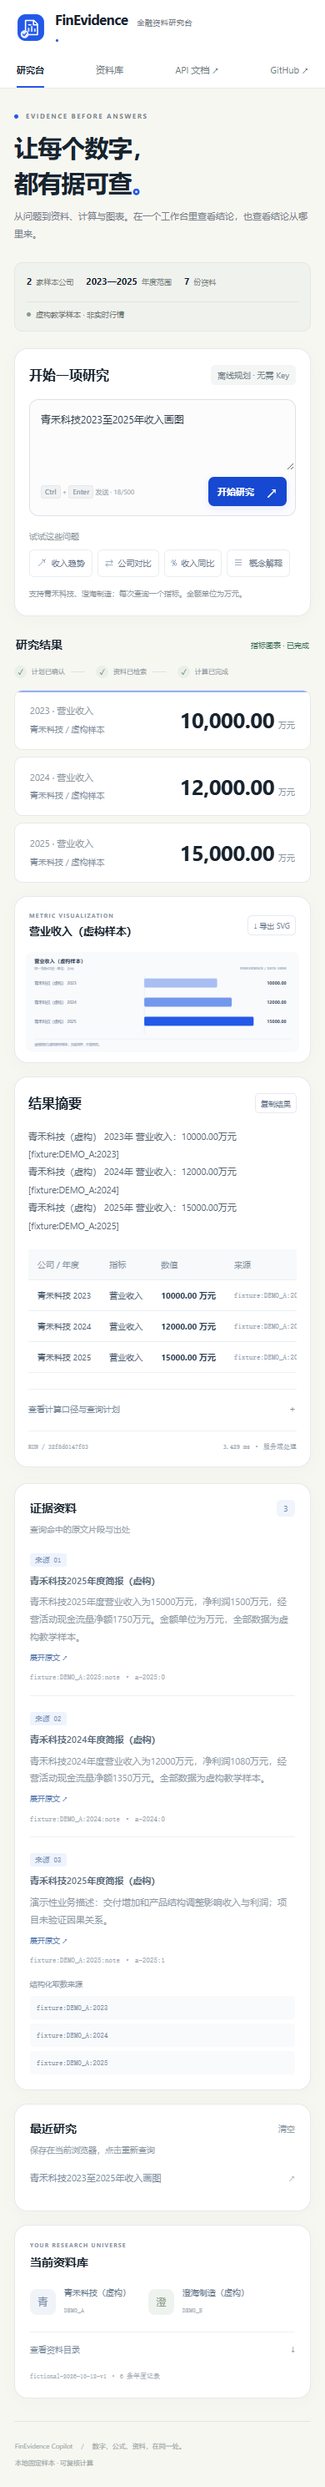
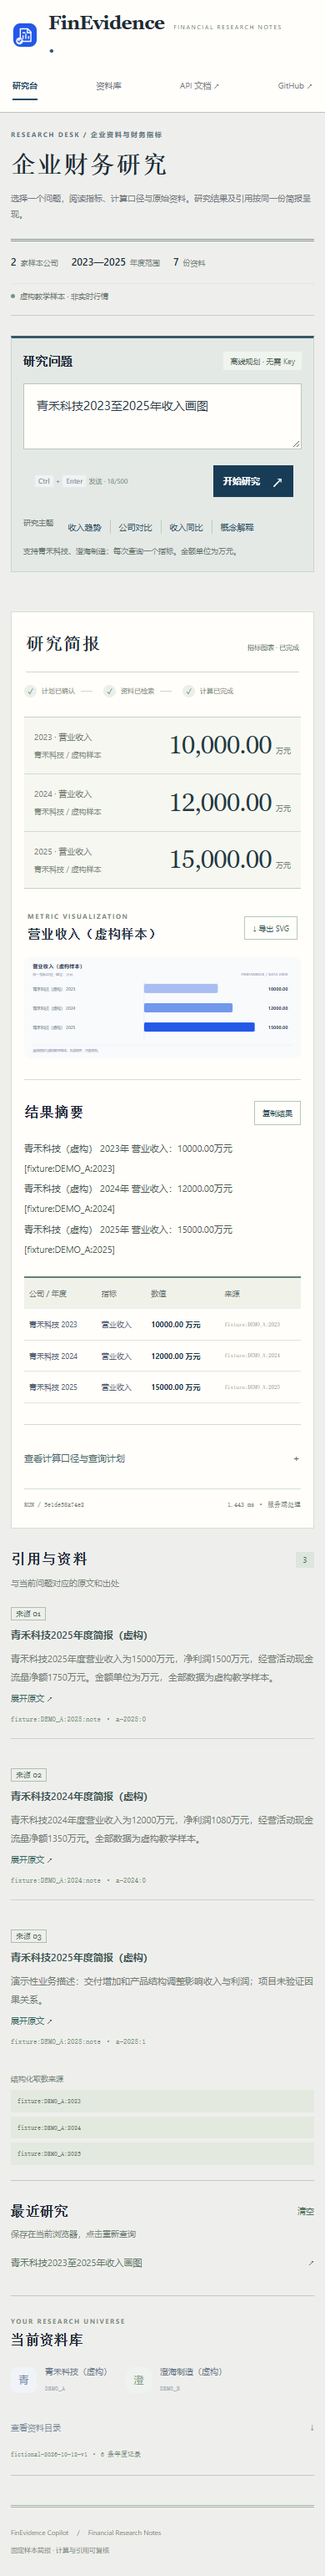
Present financial queries as research briefs with citation margins

diff --git a/src/finevidence/web/report.css b/src/finevidence/web/report.css
@@ -1,0 +1,18 @@
+/* Research-document layout: a full-width question desk, report body and citation margin. */
+#ask-form{background:transparent;border:0;border-radius:0;padding:0}
+:root{--paper:#eeefec;--card:#fffefa;--ink:#202c36;--muted:#70797d;--line:#daddd6;--blue:#254b66;--pale:#edf1f1;--radius:0}
+body{background:var(--paper);color:var(--ink);font-size:13px;font-family:"Segoe UI","Microsoft YaHei",sans-serif}
+.site-header{background:#fffefa;border-bottom:1px solid #bbc3c2}.header-inner{max-width:1300px;min-height:76px;padding:15px 30px;gap:40px}.brand{gap:13px}.brand strong{font-family:Georgia,"Times New Roman",serif;font-size:27px;font-weight:600;letter-spacing:-.7px}.brand small{font-size:8px;letter-spacing:1.6px;color:#6e7c82}.brand-dot{color:#315a73}.brand img{width:34px;height:34px}nav{gap:22px}nav a{font-size:11px;color:#778087}nav .nav-active{color:#254b66;border-bottom-color:#254b66}.connection{font-size:10px;color:#6e7d79}
+.shell{max-width:1300px;padding:30px 30px 0}.report-heading{display:flex;align-items:end;justify-content:space-between;gap:22px;padding:0 0 22px;border-bottom:3px double #839494}.report-heading .eyebrow{margin:0 0 11px;font-size:9px;color:#5b747e;letter-spacing:1.6px}.report-heading h1{font-family:Georgia,"Songti SC","SimSun",serif;font-size:34px;font-weight:600;letter-spacing:2px;line-height:1.25;margin:0 0 13px}.report-heading .intro-copy{font-size:11px;color:#778085;margin:0}.report-edition{display:grid;text-align:right;gap:9px;font-size:10px;color:#7c888e;font-family:Consolas,monospace}.report-edition strong{font-weight:400;color:#31566b;font-size:10px}
+.scope-bar{background:transparent;border:0;border-bottom:1px solid #c5ccca;border-radius:0;padding:15px 0;margin:0 0 24px;gap:25px;font-size:10px}.scope-bar strong{font-size:12px;font-weight:550;font-variant-numeric:tabular-nums}.scope-icon{display:none}.scope-note{color:#6e7e7b}.soft-dot{background:#7b9186}
+.workspace{display:grid;grid-template-columns:minmax(0,1fr) 295px;gap:24px 32px;align-items:start}.research-column{display:contents}.composer{grid-column:1 / -1;grid-row:1}.results{grid-column:1;grid-row:2;background:#fffefa;border:1px solid #d9ddd7;padding:28px 30px}.evidence-column{grid-column:2;grid-row:2;display:grid;gap:28px;align-self:start}
+.panel{background:transparent;border:0;border-radius:0;box-shadow:none}.composer{padding:18px 22px 16px;background:#e4e9e6;border:1px solid #cad4ce;border-top:3px solid #365967}.section-line h2{font-size:14px;font-family:Georgia,"SimSun",serif;font-weight:600}.composer .section-line{margin-bottom:12px}.tiny-tag{font-size:9px;color:#5b7069;background:#f0f4ee;border-radius:0;padding:4px 8px}
+#ask-form{display:grid;grid-template-columns:minmax(0,1fr) 145px;gap:0 16px;align-items:start}#question{font-size:14px;font-family:"Microsoft YaHei",sans-serif;border-radius:0;background:#fffefa;border:1px solid #b9c5be;min-height:66px;padding:13px 15px;line-height:1.8;resize:vertical}#question:focus{border-color:#2f6075;box-shadow:none}.composer-bottom{margin:0;display:flex;flex-direction:column-reverse;align-items:stretch;justify-content:start;gap:10px}.composer-bottom>span{font-size:8px;text-align:center;color:#6d7f78}.primary-button{justify-content:space-between;background:#254b66;border-radius:0;box-shadow:none;font-size:12px;min-height:43px;padding:10px 13px}.primary-button:hover{background:#173b55}.example-label{display:inline-block;margin:12px 14px 0 0;font-size:9px;color:#748279}.examples{display:inline-flex;gap:0;flex-wrap:wrap;margin-top:12px;vertical-align:middle}.examples button{border:0;border-left:1px solid #becac3;border-radius:0;background:none;color:#315569;font-size:10px;padding:0 13px}.examples button:first-child{border-left:0;padding-left:0}.examples button:hover{background:transparent;color:#112e42;text-decoration:underline}.examples button span{display:none}.field-hint{font-size:9px;color:#708077;margin:11px 0 0}
+.results-heading{padding-bottom:15px;border-bottom:1px solid #cfd6d0;margin-bottom:15px;align-items:baseline}.results-heading h2{font-family:Georgia,"SimSun",serif;font-size:23px;font-weight:600;letter-spacing:1px}.result-meta{font-size:9px;color:#72877d}.result-meta.success{color:#4f7165}.result-steps{font-size:9px;color:#7c8c80;margin:15px 0 23px}.result-steps span+span::before{background:#cdd5ce;width:32px}
+.fact-grid{gap:0;border-top:1px solid #c5cfcc;border-bottom:1px solid #c5cfcc;margin-bottom:27px;grid-template-columns:repeat(3,minmax(0,1fr));background:#f6f7f1}.fact-card{border:0;border-right:1px solid #d5dcd3;border-radius:0;padding:17px 18px;box-shadow:none;background:transparent;display:block}.fact-card:last-child{border-right:0}.fact-card::before{display:none}.fact-card .fact-label{font-size:10px;color:#798579;letter-spacing:0;margin:0 0 10px}.fact-card .fact-value{font-family:Georgia,"Times New Roman",serif;font-size:28px;letter-spacing:-.7px;font-weight:500;color:#243a43;white-space:normal;font-variant-numeric:lining-nums tabular-nums;margin:0}.fact-card .fact-value small{font-family:"Segoe UI",sans-serif;font-size:9px;color:#708578;margin-left:5px}.fact-card .fact-company{font-size:9px;margin-top:10px;color:#889287}
+.chart-panel{border-bottom:1px solid #d6ddd5;padding:0 0 25px;margin-bottom:25px}.chart-panel .section-line{margin-bottom:15px}.chart-panel h3{font-family:Georgia,"SimSun",serif;font-size:17px;color:#263b42}.small-eyebrow{font-size:8px;color:#7e8e83;letter-spacing:1.5px}.quiet-button{border:1px solid #b7c6bd;border-radius:0;background:transparent;color:#365b62;font-size:10px;padding:6px 9px}.quiet-button:hover{background:#eaf0e8}.chart-panel img{border-radius:0;width:100%;height:auto}.chart-panel .field-hint{font-size:9px}.answer-panel{padding:0}.answer-panel h3{font-size:17px;font-family:Georgia,"SimSun",serif}.answer-text{font-size:12px;line-height:2.2;color:#4e5b58;white-space:pre-line}.table-wrap{border-radius:0;margin-top:20px;overflow-x:auto;border-top:2px solid #637f7b}.table-wrap th{background:#f0f2ea;font-size:10px;color:#748178;padding:13px 10px;font-weight:500}.table-wrap td{padding:14px 10px;font-size:10px;border-color:#e0e5dc;font-variant-numeric:tabular-nums}.table-wrap td:last-child{font-size:8px;color:#7e9086;overflow-wrap:anywhere}.calculation{border-color:#d1dbd1;margin-top:25px;padding-top:16px}.calculation summary{font-size:11px;color:#47676a}.formula{font-family:Consolas,monospace;font-size:11px;background:#f0f4ed;border-radius:0;padding:12px}.plan-list{font-size:10px;line-height:1.9}.plan-list dt{color:#829082}.result-foot{font-size:8px;border-color:#d7dfd4;margin-top:25px;color:#7c8b7c}
+.evidence-panel,.history-panel,.library-panel{padding:0 0 18px;border-bottom:1px solid #bfcac2}.evidence-panel .section-line h2,.history-panel .section-line h2,.library-panel h2{font-family:Georgia,"SimSun",serif;font-size:17px;letter-spacing:.4px}.panel-subtitle{font-size:10px;color:#7b8980;line-height:1.8}.count-badge{border-radius:0;background:#dce6dd;color:#456353;font-size:9px}.evidence-card{padding:16px 0;border-bottom:1px solid #c9d4c9}.evidence-card:last-child{border-bottom:0}.evidence-number{font-family:Georgia,serif;background:transparent;border:1px solid #adbfaf;border-radius:0;font-size:9px;color:#53705c;padding:2px 5px}.evidence-title{font-size:11px;line-height:1.8;font-weight:600;color:#3f5653}.evidence-preview,.evidence-full{font-size:11px;line-height:2;color:#738074}.evidence-toggle{font-size:10px;color:#3c6c66}.source-line{font-size:8px;color:#82957f;overflow-wrap:anywhere}.fact-source{font-size:8px;background:#e4e9df;border-radius:0;color:#6c8572;overflow-wrap:anywhere}.source-title{font-size:9px;color:#7c8e7e}.history-item{font-size:11px;line-height:1.8;padding:11px 0;border-color:#cbd6ca;color:#627769}.history-item:hover{color:#254b66;background:none}.history-item b{font-size:10px;color:#557263}.text-button{font-size:10px;color:#557763}.company-list{gap:17px}.company-entry{padding:0;background:none;border:0}.company-letter{border-radius:0;color:#55766a;background:#dfe7df}.company-entry strong{font-size:11px;color:#516655}.company-entry small{font-size:8px;color:#82947f}.library-details{font-size:10px;color:#6f8775}.library-foot{font-size:8px;color:#81947f}
+.notice{background:#eeeadb;border:1px solid #d4c8ab;border-radius:0;color:#78654b;font-size:11px}.notice.error{background:#f1e5de;color:#8d5548;border-color:#d7b9a8}.loading-state,.empty-state{padding:40px 20px;background:#f3f4ed;border:1px solid #d8dfd2;border-radius:0}.loading-state strong{color:#536b5b;font-size:13px}.loading-state p,.empty-state p{font-size:11px;color:#7b8a79}.empty-state h3{font-family:Georgia,"SimSun",serif;color:#4e6855}.empty-symbol{color:#839777}.site-footer{border-top:3px double #a5b5a7;font-size:9px;color:#7d8d7a;margin-top:35px;padding:24px 0}.footer-dot{color:#708b73}.toast{border-radius:0;background:#2c4546;font-size:11px}
+@media(max-width:1050px){.workspace{grid-template-columns:minmax(0,1fr) 260px;gap:20px}.shell{padding:25px 24px 0}.header-inner{padding:15px 24px}.report-heading h1{font-size:30px}.results{padding:24px 21px}.fact-card{padding:15px 12px}.fact-card .fact-value{font-size:24px}.fact-grid{grid-template-columns:repeat(3,minmax(0,1fr))}.evidence-column{display:grid;grid-template-columns:1fr}.library-panel{grid-column:auto}}
+@media(max-width:800px){.header-inner{flex-wrap:wrap;gap:12px;min-height:auto;padding:15px 18px}.brand strong{font-size:25px}.connection{margin-left:auto}nav{order:3;width:100%;gap:25px;padding-top:4px}nav a{font-size:10px}.shell{padding:24px 18px 0}.report-heading{align-items:start;padding-bottom:20px}.report-heading h1{font-size:30px}.report-edition{display:none}.workspace{grid-template-columns:minmax(0,1fr);gap:24px}.composer{grid-column:1;grid-row:1}.results{grid-column:1;grid-row:2;padding:24px 20px}.evidence-column{grid-column:1;grid-row:3;grid-template-columns:minmax(0,1fr) minmax(0,1fr);gap:24px}.evidence-panel{grid-column:1/-1}.library-panel{grid-column:auto}.scope-bar{gap:16px;flex-wrap:wrap;justify-content:start}.scope-note{margin-left:0;width:100%;font-size:9px}.composer{padding:17px 18px}.composer #ask-form{grid-template-columns:minmax(0,1fr) 125px}.primary-button{font-size:11px}.composer-bottom>span{font-size:7px}.result-steps{font-size:8px}.report-heading .intro-copy{font-size:10px;line-height:1.9}.report-heading .eyebrow{font-size:8px}.fact-card .fact-value{font-size:26px}.table-wrap td:last-child{font-size:8px}}
+@media(max-width:500px){.shell{padding:20px 13px 0}.header-inner{padding:14px 15px}.brand small{font-size:7px}.brand strong{font-size:23px}.brand img{width:30px;height:30px}.connection{font-size:8px}.report-heading h1{font-size:29px}.composer{padding:16px 14px}.composer #ask-form{grid-template-columns:1fr;gap:12px}.composer-bottom{flex-direction:row;align-items:center;justify-content:space-between}.composer-bottom>span{font-size:8px;text-align:left}.primary-button{min-height:38px;padding:8px 12px}.examples{gap:9px 0}.examples button{font-size:10px;padding:0 10px}.examples button:first-child{padding-left:0}.example-label{font-size:9px}.field-hint{font-size:9px;line-height:1.9}.results{padding:22px 15px}.results-heading h2{font-size:21px}.result-meta{font-size:8px}.fact-grid{grid-template-columns:1fr}.fact-card{display:grid;grid-template-columns:minmax(0,1fr) auto;padding:15px 12px;border-right:0;border-bottom:1px solid #d2dcd0;column-gap:14px}.fact-card:last-child{border-bottom:0}.fact-card .fact-label{font-size:10px;grid-row:1;grid-column:1;margin-bottom:6px}.fact-card .fact-value{grid-column:2;grid-row:1/span 2;font-size:29px}.fact-card .fact-company{grid-column:1;grid-row:2;margin:0;font-size:9px}.evidence-column{grid-template-columns:1fr}.evidence-panel{grid-column:1}.evidence-title{font-size:12px}.evidence-preview,.evidence-full{font-size:12px}.source-line{font-size:9px}.chart-panel h3{font-size:15px}.quiet-button{font-size:9px}.table-wrap th,.table-wrap td{padding:11px 6px;font-size:9px}.table-wrap td:last-child{font-size:7px}.answer-text{font-size:11px}.site-footer{font-size:8px;gap:8px}.result-steps span+span::before{width:14px;margin:0 7px}.history-panel .section-line h2,.library-panel h2{font-size:16px}}

diff --git a/src/finevidence/web/index.html b/src/finevidence/web/index.html
@@ -7,6 +7,7 @@
   <title>FinEvidence · 金融资料研究台</title>
   <link rel="icon" type="image/svg+xml" href="/static/logo.svg">
   <link rel="stylesheet" href="/static/app.css">
+  <link rel="stylesheet" href="/static/report.css">
   <script defer src="/static/app.js"></script>
 </head>
 <body>
@@ -15,7 +16,7 @@
     <div class="header-inner">
       <a class="brand" href="/" aria-label="FinEvidence 首页">
         <img src="/static/logo.svg" width="42" height="42" alt="">
-        <span><strong>FinEvidence<span class="brand-dot">.</span></strong><small>金融资料研究台</small></span>
+        <span><strong>FinEvidence<span class="brand-dot">.</span></strong><small>FINANCIAL RESEARCH NOTES</small></span>
       </a>
       <nav aria-label="项目导航">
         <a class="nav-active" href="#research">研究台</a>
@@ -28,13 +29,13 @@
   </header>
 
   <main class="shell">
-    <section class="intro" aria-labelledby="page-title">
+    <section class="report-heading" aria-labelledby="page-title">
       <div>
-        <p class="eyebrow"><span></span> EVIDENCE BEFORE ANSWERS</p>
-        <h1 id="page-title">让每个数字，<br class="mobile-break">都有据可查<span>。</span></h1>
-        <p class="intro-copy">从问题到资料、计算与图表。在一个工作台里查看结论，也查看结论从哪里来。</p>
+        <p class="eyebrow">RESEARCH DESK / 企业资料与财务指标</p>
+        <h1 id="page-title">企业财务研究</h1>
+        <p class="intro-copy">选择一个问题，阅读指标、计算口径与原始资料。研究结果及引用按同一份简报呈现。</p>
       </div>
-      <div class="intro-note"><span class="note-mark">01 /</span><strong>问得清楚，算得明白</strong><p>公司 · 年度 · 指标<br>同一口径，逐项可核验</p></div>
+      <div class="report-edition"><strong>LOCAL SAMPLE EDITION</strong><span>固定年度样本 / 来源随结果保留</span></div>
     </section>
 
     <section class="scope-bar" aria-label="当前资料范围">
@@ -47,13 +48,13 @@
     <div class="workspace">
       <div class="research-column">
         <section id="research" class="panel composer" aria-labelledby="research-heading">
-          <div class="section-line"><h2 id="research-heading">开始一项研究</h2><span class="tiny-tag" id="provider-label">本地资料</span></div>
+          <div class="section-line"><h2 id="research-heading">研究问题</h2><span class="tiny-tag" id="provider-label">本地资料</span></div>
           <form id="ask-form">
             <label for="question" class="sr-only">研究问题</label>
             <textarea id="question" name="question" rows="2" maxlength="500" required placeholder="例如：比较青禾科技和澄海制造 2025 年净利率">青禾科技2023至2025年收入画图</textarea>
             <div class="composer-bottom"><span><kbd>Ctrl</kbd> + <kbd>Enter</kbd> 发送 · <span id="char-count">0</span>/500</span><button id="submit" class="primary-button" type="submit"><span>开始研究</span><b aria-hidden="true">↗</b></button></div>
           </form>
-          <div class="example-label">试试这些问题</div>
+          <div class="example-label">研究主题</div>
           <div id="examples" class="examples">
             <button type="button" data-question="青禾科技2023至2025年收入画图"><span>↗</span> 收入趋势</button>
             <button type="button" data-question="比较青禾科技和澄海制造2025年净利率"><span>⇄</span> 公司对比</button>
@@ -64,7 +65,7 @@
         </section>
 
         <section id="results" class="results" aria-live="polite" aria-busy="false">
-          <div class="results-heading"><h2>研究结果</h2><div id="result-meta" class="result-meta">准备就绪</div></div>
+          <div class="results-heading"><h2>研究简报</h2><div id="result-meta" class="result-meta">准备就绪</div></div>
           <div id="notice" class="notice" hidden></div>
           <div id="loading" class="panel loading-state" hidden><div class="spinner"></div><div><strong>正在检索资料与计算指标</strong><p>结果完成后，将一起呈现公式、引用与图表。</p></div></div>
           <div id="empty-state" class="panel empty-state"><span class="empty-symbol">⌕</span><h3>从一个具体的问题开始</h3><p>点击示例，或填写公司、年份和指标。</p></div>
@@ -88,12 +89,12 @@
       </div>
 
       <aside class="evidence-column" aria-label="资料与查询记录">
-        <section class="panel evidence-panel"><div class="section-line"><h2>证据资料</h2><span id="evidence-count" class="count-badge">0</span></div><p class="panel-subtitle">查询命中的原文片段与出处</p><div id="evidence-list"><div class="aside-empty">研究完成后，在这里核对来源。</div></div><div id="fact-sources"></div></section>
+        <section class="panel evidence-panel"><div class="section-line"><h2>引用与资料</h2><span id="evidence-count" class="count-badge">0</span></div><p class="panel-subtitle">与当前问题对应的原文和出处</p><div id="evidence-list"><div class="aside-empty">研究完成后，在这里核对来源。</div></div><div id="fact-sources"></div></section>
         <section class="panel history-panel"><div class="section-line"><h2>最近研究</h2><button id="clear-history" class="text-button" type="button">清空</button></div><p class="panel-subtitle">保存在当前浏览器，点击重新查询</p><div id="history-list"></div></section>
         <section id="library" class="panel library-panel"><p class="small-eyebrow">YOUR RESEARCH UNIVERSE</p><h2>当前资料库</h2><div id="company-list" class="company-list"></div><details class="library-details"><summary>查看资料目录 <span>↓</span></summary><ul id="document-list"></ul></details><p class="library-foot" id="dataset-version">正在读取资料版本…</p></section>
       </aside>
     </div>
-    <footer class="site-footer"><span>FinEvidence Copilot <span class="footer-dot">/</span> 数字、公式、资料，在同一处。</span><span>本地固定样本 · 可复核计算</span></footer>
+    <footer class="site-footer"><span>FinEvidence Copilot <span class="footer-dot">/</span> Financial Research Notes</span><span>固定样本简报 · 计算与引用可复核</span></footer>
   </main>
   <div id="toast" class="toast" role="status" hidden></div>
 </body>

diff --git a/README.md b/README.md
@@ -1,20 +1,21 @@
-<p align="center"><img src="docs/assets/banner.svg" alt="FinEvidence：让每个数字都有据可查" width="100%"></p>
-
-<p align="center">
-  <a href="https://github.com/00lostin00/FinEvidenceCopilot/actions/workflows/ci.yml"><img src="https://github.com/00lostin00/FinEvidenceCopilot/actions/workflows/ci.yml/badge.svg" alt="Checks"></a>
-  <a href="pyproject.toml"><img src="https://img.shields.io/badge/Python-3.11%2B-2358e8" alt="Python 3.11+"></a>
-  <a href="LICENSE"><img src="https://img.shields.io/badge/License-MIT-687b91" alt="MIT"></a>
-</p>
-
-<p align="center"><a href="#工作台">工作台</a> · <a href="#快速运行">快速运行</a> · <a href="#技术路径">技术路径</a> · <a href="#参考与范围比较">参考比较</a> · <a href="docs/FRONTEND.md">交互说明</a> · <a href="docs/guide.md">技术指南</a></p>
+![FinEvidence 财务研究笔记](docs/assets/banner.svg)
 
 # FinEvidence Copilot
 
-带来源的金融资料研究台。输入公司、年度与指标，查看计算结果、公式、资料摘录和图表；概念问题返回资料原文与出处。数字由 Decimal 计算，模型仅作为可选的结构化规划接口。
+> 青禾科技 2025 年营业收入同比是多少？数字依据哪两年的资料？
 
-默认使用两家虚构公司的固定教学样本，无需模型 Key。适合运行和检查一条完整的财务资料检索与指标交付流程。
+在内置虚构样本中，2025 年收入为 15000 万元，2024 年为 12000 万元；同比由程序计算为 **25.00%**。研究简报同时保留公式、取数来源和说明资料，概念问题则返回检索摘录与原文。
 
-## 工作台
+| 研究范围 | 当前样本 |
+| --- | --- |
+| 公司 | 青禾科技、澄海制造，两家虚构公司 |
+| 年度与资料 | 2023-2025，6 条年度记录、7 份资料 |
+| 计算 | Decimal 数值、同比基期、净利率与来源 |
+| 规划 | 默认规则；可选 LangChain 结构化模型接口 |
+
+这些数据用于复核查询流程，不是实时行情。默认无需模型密钥；尚未完成真实模型 API 的准确率评测。
+
+## 阅读一份研究简报
 
 ![金融资料研究台：收入趋势与证据资料](docs/screenshots/workbench.png)
 
@@ -27,7 +28,7 @@
 | 查询重放 | 当前浏览器保存最近 8 个问题，点击重新执行 |
 | 过程检查 | 任务类型、公司与年度范围、规划模式、资料版本和运行 ID |
 
-界面采用原创资料徽记、米白底色和蓝色指标系统，支持手机屏幕、键盘提交、等待与失败状态。页面数据通过同源 FastAPI 接口读取，不依赖 npm、CDN 或外部字体。详见[交互与实现说明](docs/FRONTEND.md)。
+界面按研究文档组织：上方横向问题栏、左侧简报正文、右侧引用与资料目录。衬线标题、细线分隔、连续数值栏与方角版面用于阅读和比较，支持手机屏幕、键盘提交、等待与失败状态。页面数据通过同源 FastAPI 接口读取，不依赖 npm、CDN 或外部字体。详见[交互与实现说明](docs/FRONTEND.md)。
 
 ## 快速运行
 
@@ -57,7 +58,7 @@ uv run --frozen --all-extras finevidence "青禾科技2023至2025年收入画图
 | `POST /v1/ask` | 接受 `{"question":"青禾科技2025年营业收入同比"}`，返回计划、数字与证据 |
 | `POST /v1/chart.svg` | 接受同格式的图表问题，返回 SVG |
 
-## 技术路径
+## 问题、计算与资料怎样对应
 
 ```mermaid
 flowchart LR

diff --git a/docs/FRONTEND.md b/docs/FRONTEND.md
@@ -1,4 +1,4 @@
-# 金融资料研究台
+# 企业财务研究简报
 
 工作台与 API 由同一个 FastAPI 进程提供。打开根路径即可使用，不依赖 npm 构建、CDN、外部字体或模型 Key。默认运行离线规划，对两家虚构公司的年度样本进行检索和计算。
 
@@ -55,7 +55,7 @@ sequenceDiagram
 
 ## 实现与安全边界
 
-静态页面位于 `src/finevidence/web/`，包括 `index.html`、`app.css`、`app.js` 与原创 `logo.svg`。静态路由使用 FastAPI `StaticFiles`，首页固定为包内文件，不接受任意文件路径。
+静态页面位于 `src/finevidence/web/`，包括 `index.html`、`app.css`、`report.css`、`app.js` 与原创 `logo.svg`。静态路由使用 FastAPI `StaticFiles`，首页固定为包内文件，不接受任意文件路径。
 
 查询、答案、计划和证据使用 `textContent` 和 DOM 节点渲染，不拼接用户 HTML。图表通过 `img` 与 Blob URL 呈现，不把 SVG 内容插入页面 DOM；更新时回收旧 URL。页面使用同源资源与严格 CSP，不加载第三方脚本。服务默认绑定 `127.0.0.1`；如需公开部署，应先补鉴权与访问控制。
 
@@ -77,3 +77,5 @@ uv run --frozen --all-extras python tools/smoke_http.py
 ## 扩展顺序
 
 接入真实资料时，先确认数据使用权限、报告期、币种、金额单位与合并范围，再加入资料导入和版本管理。后续可以增加混合检索与重排、返回单次计算的图表文件、历史运行归档与多用户鉴权。
+
+页面采用研究文档版面：横向问题栏、简报正文与引用边栏；指标摘要使用连续数值栏，正文和来源用细线分隔。手机把引用移动到正文之后，保留数值、公式与导出入口。
